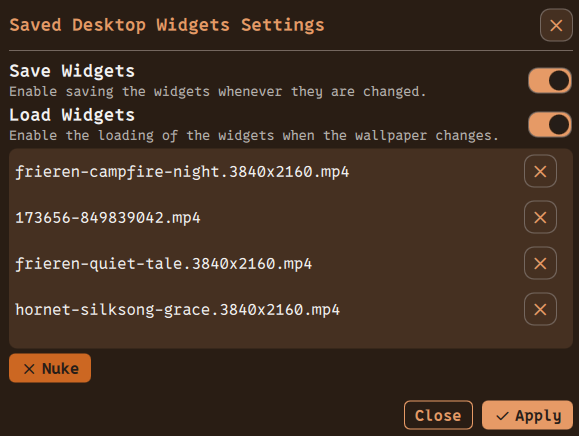
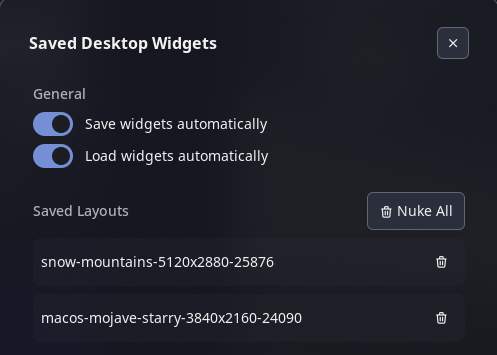
updated for submittion

diff --git a/README.md b/README.md
@@ -1,7 +1,47 @@
 # Saved Desktop Widgets
 
-A plugin that allows you to save the desktop widgets that you have per wallpaper.
+Save a separate Noctalia desktop-widget layout for each wallpaper and restore it
+automatically when the wallpaper changes.
+
+## Plugin
+
+| Field | Value |
+| --- | --- |
+| ID | `hakanct/saved-desktop-widgets` |
+| Entries | Bar widget: `settings_launcher`; panel: `settings`; service: `service` |
 
 ## Requirements
 
-- **Noctalia Shell**: 5.1.0 or later
+- Noctalia Shell 5.1.0 or later.
+
+## Usage
+
+Add the `settings_launcher` bar widget to a bar. Clicking it opens the
+`Saved Desktop Widgets` panel, where you can view or remove saved layouts.
+
+You can also open the panel directly with:
+
+```sh
+noctalia msg panel-toggle hakanct/saved-desktop-widgets:settings
+```
+
+When `Save Widgets` is enabled, the service saves the current desktop-widget
+layout after it changes. When `Load Widgets` is enabled, a saved layout is
+applied after switching to a wallpaper that has a saved layout. The service
+checks for changes once per second.
+
+## Settings
+
+| Setting | Type | Default | Description |
+| --- | --- | --- | --- |
+| `saveWidgets` | `bool` | `true` | Save the current desktop-widget layout whenever it changes. |
+| `loadWidgets` | `bool` | `true` | Apply the saved layout when the wallpaper changes. |
+
+## Notes
+
+This plugin is a revised and updated version of the legacy v4
+[saved-desktop-widgets plugin](https://github.com/noctalia-dev/legacy-v4-plugins/tree/main/saved-desktop-widgets).
+
+Layouts are stored in the plugin data directory as `layouts.json`. Applying a
+layout updates Noctalia's state file at
+`~/.local/state/noctalia/settings.toml`, then reloads the configuration.
